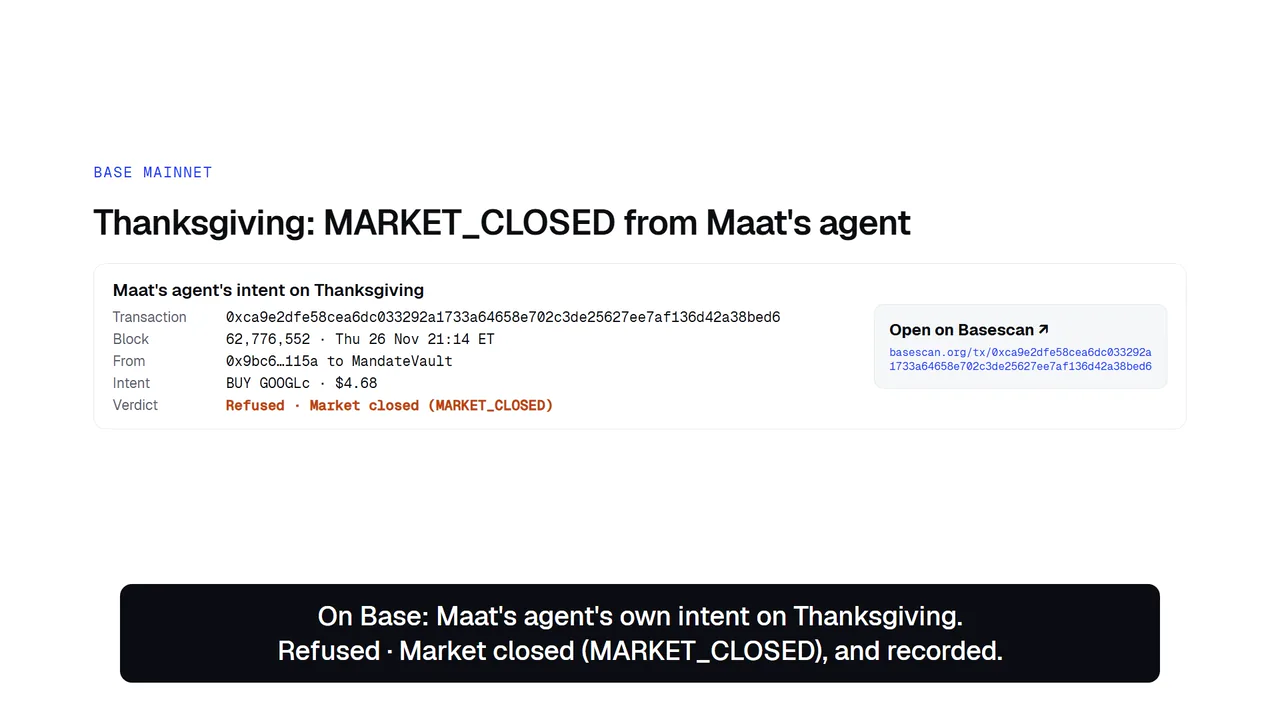
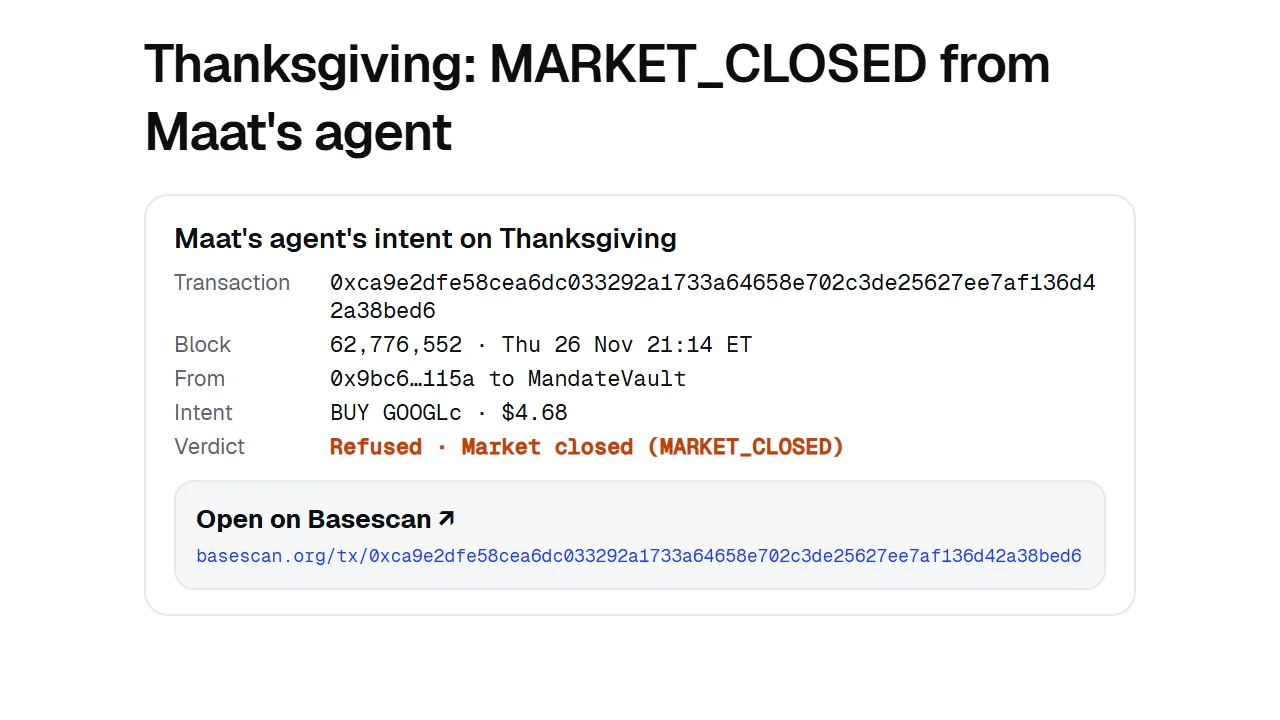
fix(web): a film poster a first-time visitor can read
The poster was the 16:9 frame at 53.5 s: mostly white, its verdict line about 8 px tall in the 718 px player at 1440
and 4 px in the 358 px player at 390, and its burned-in caption, the only large text, under the player's controls and
their shade, so two layers of text overlapped.

It is now the same moment of the 9:16 cut, whose tx card is laid out for a phone, cropped 1:1 to the card: the heading
"Thanksgiving: MARKET_CLOSED from Maat's agent" and the rows down to "Refused · Market closed (MARKET_CLOSED)" and the
Basescan link, with no caption in it and the verdict about 60% down, above the controls; padded to 1280x720 in the
frame's own white. Still a WebP frame of the Thanksgiving refusal (spec section 2), 51,962 bytes. film/README.md gives
the command and why.

diff --git a/web/content/film.ts b/web/content/film.ts
@@ -14,7 +14,10 @@ export const FILM = {
   disclosure: "Voice and music: AI-generated with ElevenLabs",
   /** The cut: H.264 High at 1280x720 with AAC sound, its index at the front of the file so it starts at once. */
   video: "/film/maat-film-720p.mp4",
-  /** A frame of the Thanksgiving refusal, 1280x720 WebP. */
+  /**
+   * A frame of the Thanksgiving refusal, 1280x720 WebP: the 9:16 cut's tx card, its heading and its verdict large and
+   * clear of the player's controls, with no burned-in caption.
+   */
   poster: "/film/maat-film-poster.webp",
   /**
    * The captions of the sound as WebVTT: the voice-over of film/narration.json, at the top of the picture so they never

diff --git a/film/README.md b/film/README.md
@@ -255,7 +255,7 @@ The landing's film band, `#film` directly under the hero (`web/components/sectio
 | File | What it is |
 | --- | --- |
 | `maat-film-720p.mp4` | The 16:9 cut at 1280x720: H.264 High, CRF 26, 30 fps, AAC 128 kbps 48 kHz stereo, its index at the front of the file (`+faststart`) so it starts before it has loaded; 5,129,355 bytes |
-| `maat-film-poster.webp` | The poster: the frame at 53.5 s, the tx card of Maat's agent's Thanksgiving Decision, "Refused · Market closed (MARKET_CLOSED)", at 1280x720; 43,408 bytes |
+| `maat-film-poster.webp` | The poster: the 9:16 cut's frame at 53.5 s, cropped to the tx card of Maat's agent's Thanksgiving Decision, its heading "Thanksgiving: MARKET_CLOSED from Maat's agent" and its rows down to "Refused · Market closed (MARKET_CLOSED)", at 1280x720; 51,962 bytes |
 | `maat-film.en.vtt` | The captions track: the voice-over's 16 lines from `narration.json`, in 19 cues at the cut's times, on the top line of the picture, written by `vtt.mjs` |
 | `maat-film.on-screen.en.vtt` | The on-screen text track: the cut's 18 burned-in captions, at the cut's times, written by `vtt.mjs` |
 
@@ -306,19 +306,24 @@ Before the next full render, move that shot's scroll stop so the counts end abov
 
 ### Put a new cut on the landing
 
-Run from the repository root, with `<cut>` the 16:9 MP4 with its sound and `<work>` the work folder of the render its
-picture comes from:
+Run from the repository root, with `<cut>` the 16:9 MP4 with its sound, `<tall>` the 9:16 one, and `<work>` the work
+folder of the render their picture comes from:
 
 ```bash
 ffmpeg -i <cut> -map 0:v:0 -map 0:a:0 -map_metadata -1 -vf "scale=1280:720:flags=lanczos" \
   -c:v libx264 -preset slow -crf 26 -profile:v high -level:v 3.1 -pix_fmt yuv420p -r 30 \
   -c:a aac -b:a 128k -ar 48000 -ac 2 -movflags +faststart web/public/film/maat-film-720p.mp4
-ffmpeg -ss 53.5 -i <cut> -frames:v 1 -vf "scale=1280:720:flags=lanczos" -map_metadata -1 \
+ffmpeg -ss 53.5 -i <tall> -frames:v 1 -vf "crop=1080:720:0:410,pad=1280:720:100:0:white" -map_metadata -1 \
   -c:v libwebp -quality 82 -compression_level 6 web/public/film/maat-film-poster.webp
 node film/vtt.mjs --manifest <work>/manifest.json --captions web/public/film/maat-film.en.vtt \
   --on-screen web/public/film/maat-film.on-screen.en.vtt
 ```
 
 53.5 s is the middle of the Thanksgiving tx shot (51 to 56 s) in today's beat plan; if the plan moves that shot, take
-the middle of its new span. `film-band.test.tsx` keeps the cut between 5 and 6 MB: raise the CRF a step if a cut comes
-out heavier. `vtt.mjs` writes nothing while a narration cue leaves its shot or a cue's words are not its caption's.
+the middle of its new span. The poster comes from the 9:16 cut because its card is laid out for a phone: the same card
+in the 16:9 frame is small at the player's width, about 8 px of verdict at 1440 px and 4 px at 390 px, and its
+burned-in caption sits where the player draws its controls. The crop starts 43 px above the card's heading and keeps
+the whole card, with the verdict about 60% down the frame, above the controls' shade, and no caption in it; the pad
+widens it to 16:9 in the frame's own white. If the card moves, set the crop's top from a new frame.
+`film-band.test.tsx` keeps the cut between 5 and 6 MB: raise the CRF a step if a cut comes out heavier. `vtt.mjs`
+writes nothing while a narration cue leaves its shot or a cue's words are not its caption's.
